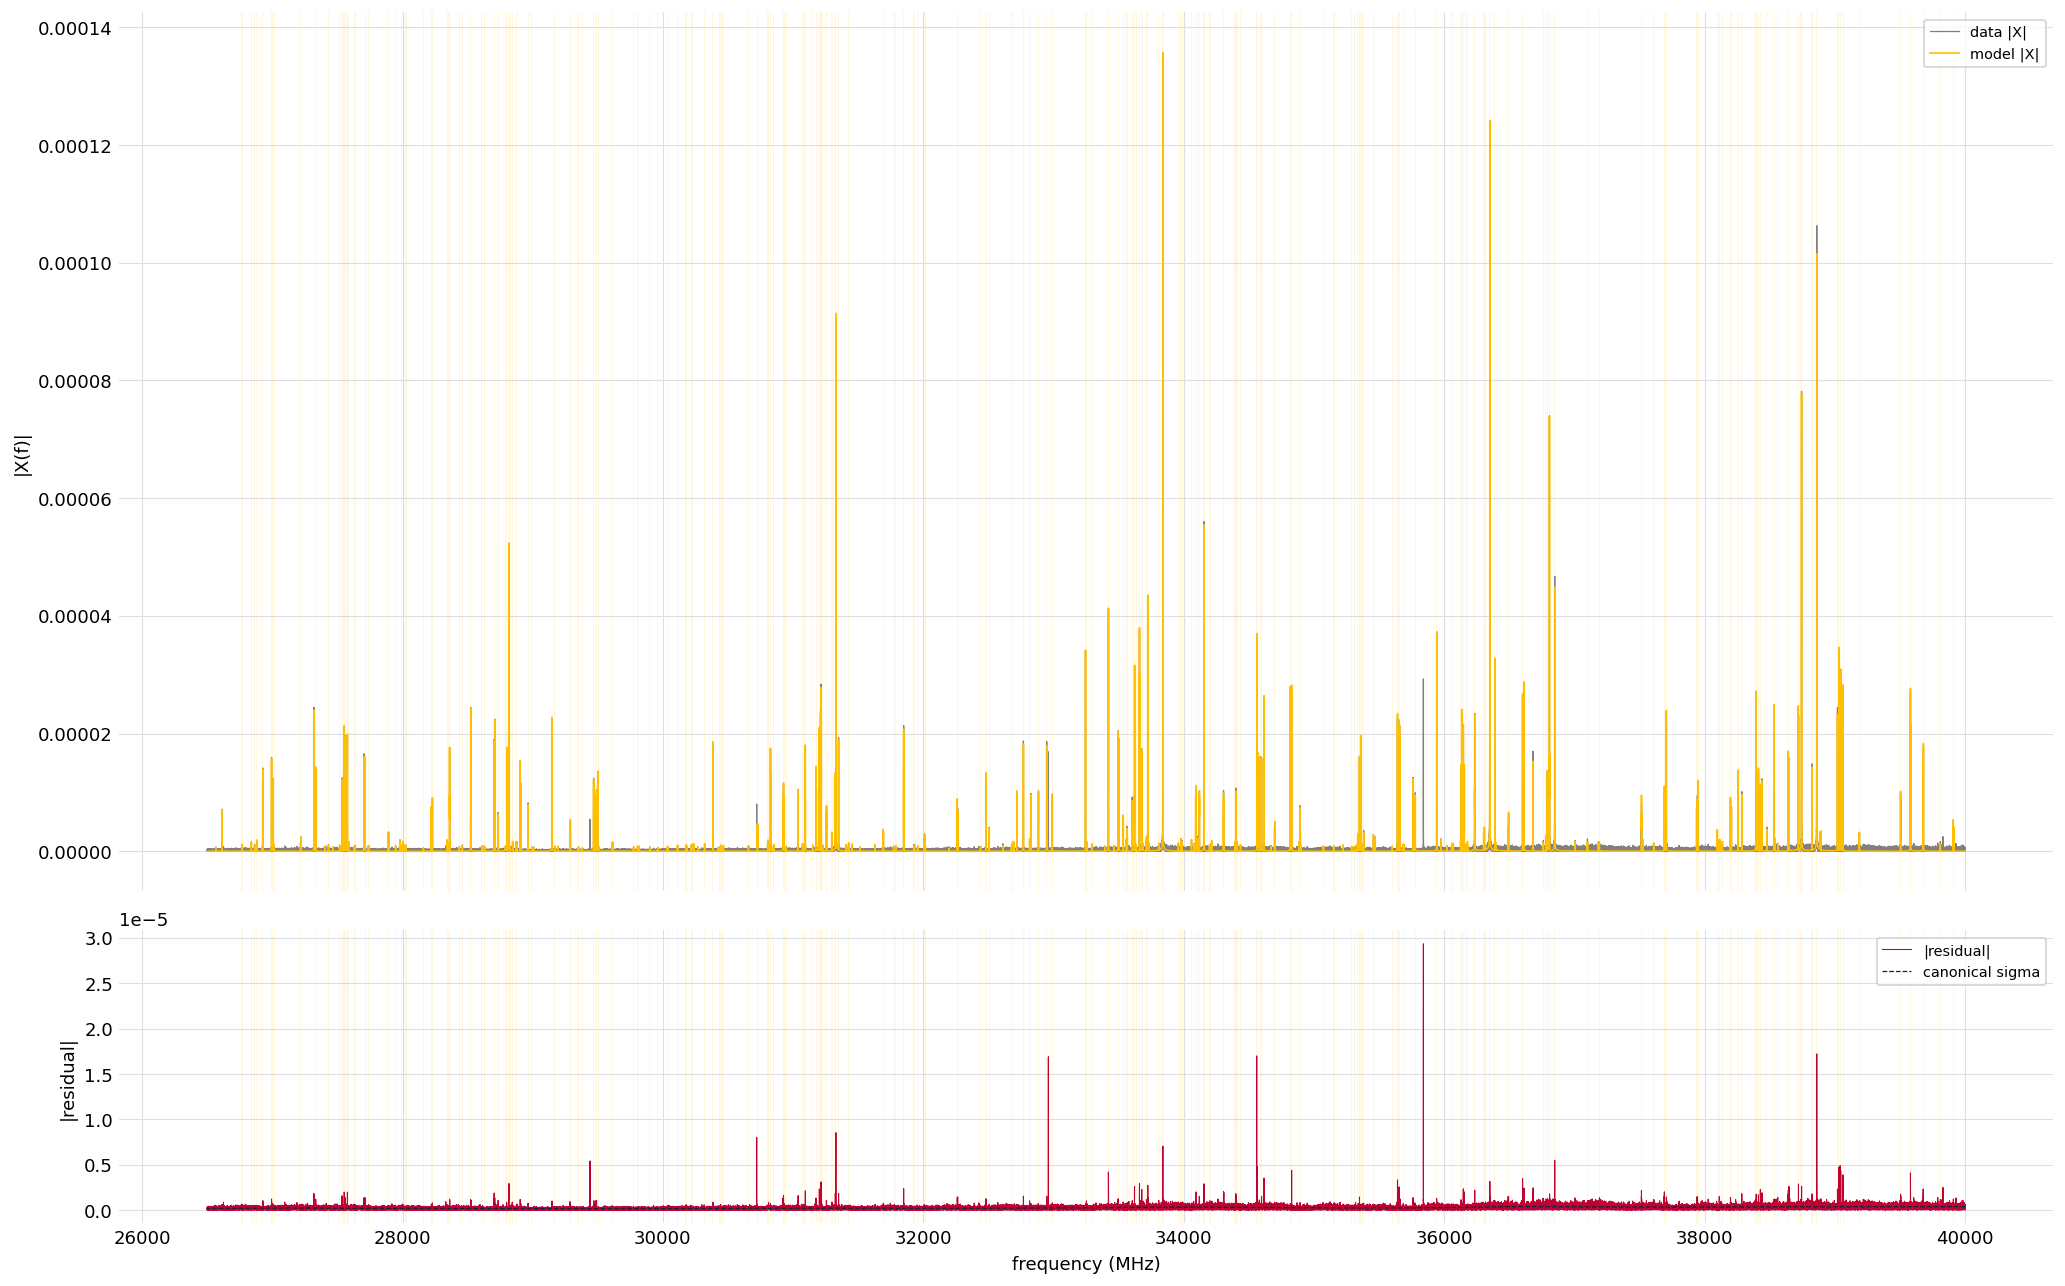
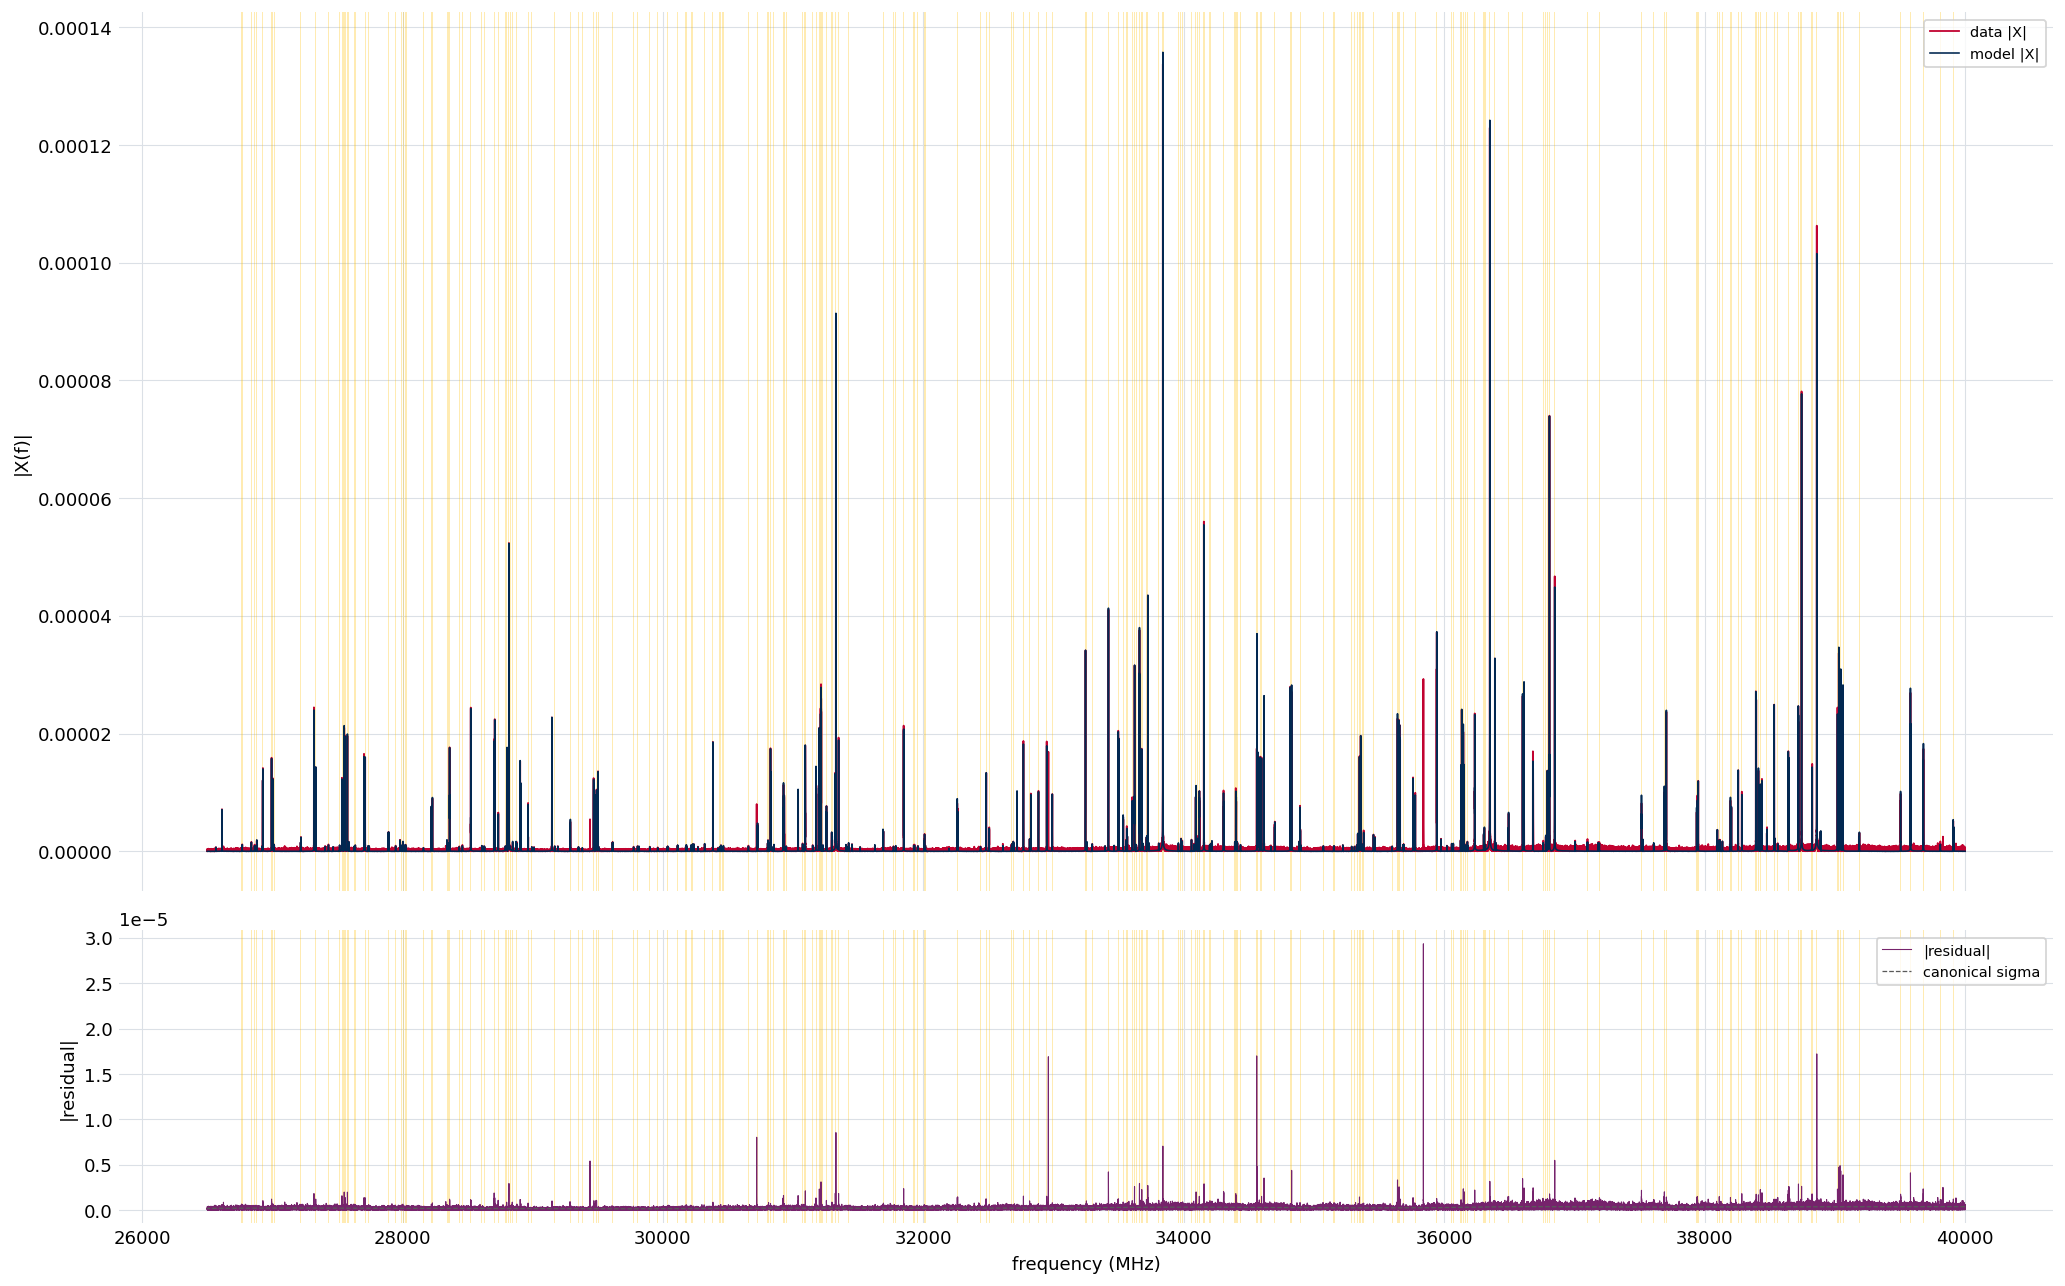
Contrast the fit-overview colors so model and data read apart
Plot the data in red and the model in blue (model on top) so divergences
draw the eye — a red spike rising above the blue marks an unmodeled spur
or the lineshape floor. Move the residual to purple and the canonical
sigma to a neutral gray dash, and deepen the window shading so the spans
are legible.

Claude-Session: https://claude.ai/code/session_012itsht2HzvW34wXcnMVEm4

Changed region(s): [[0.093, 0.0, 0.9608, 0.6843], [0.093, 0.7154, 0.9608, 0.9642]]

diff --git a/src/ftmwpipeline/visualization/fit_visualization.py b/src/ftmwpipeline/visualization/fit_visualization.py
@@ -27,7 +27,13 @@ import numpy as np
 
 from ..core.data_structures import FittingResult, Sideband, SpectrumFit
 from ..fitting.peak_model import ModelPeak, model_spectrum, sideband_sign
-from .report_style import AGGIE_BLUE, AGGIE_GOLD, DOUBLE_DECKER, apply_bare_style
+from .report_style import (
+    AGGIE_BLUE,
+    AGGIE_GOLD,
+    DOUBLE_DECKER,
+    PINOT,
+    apply_bare_style,
+)
 
 SidebandLike = Union[Sideband, str]
 
@@ -125,7 +131,7 @@ def _shade_windows(ax: plt.Axes, fit: SpectrumFit) -> None:
         if window_fit.window is None:
             continue
         lo, hi = window_fit.window.freq_range
-        ax.axvspan(lo, hi, color=AGGIE_GOLD, alpha=0.12, linewidth=0)
+        ax.axvspan(lo, hi, color=AGGIE_GOLD, alpha=0.30, linewidth=0)
 
 
 def _plot_overview(
@@ -153,9 +159,13 @@ def _plot_overview(
         2, 1, figsize=figsize, sharex=True, gridspec_kw={"height_ratios": [3, 1]}
     )
     ax_top.plot(
-        frequencies, np.abs(complex_spectrum), color="0.5", lw=0.7, label="data |X|"
+        frequencies,
+        np.abs(complex_spectrum),
+        color=DOUBLE_DECKER,
+        lw=1.0,
+        label="data |X|",
     )
-    ax_top.plot(frequencies, np.abs(model), color=AGGIE_GOLD, lw=0.9, label="model |X|")
+    ax_top.plot(frequencies, np.abs(model), color=AGGIE_BLUE, lw=0.9, label="model |X|")
     _shade_windows(ax_top, fit)
     ax_top.set_ylabel("|X(f)|")
     ax_top.set_title(title)
@@ -163,13 +173,11 @@ def _plot_overview(
     apply_bare_style(ax_top)
 
     residual_mag = np.abs(complex_spectrum - model)
-    ax_bot.plot(
-        frequencies, residual_mag, color=DOUBLE_DECKER, lw=0.6, label="|residual|"
-    )
+    ax_bot.plot(frequencies, residual_mag, color=PINOT, lw=0.6, label="|residual|")
     ax_bot.plot(
         frequencies,
         rms_noise,
-        color=AGGIE_BLUE,
+        color="0.35",
         lw=0.7,
         ls="--",
         label="canonical sigma",
